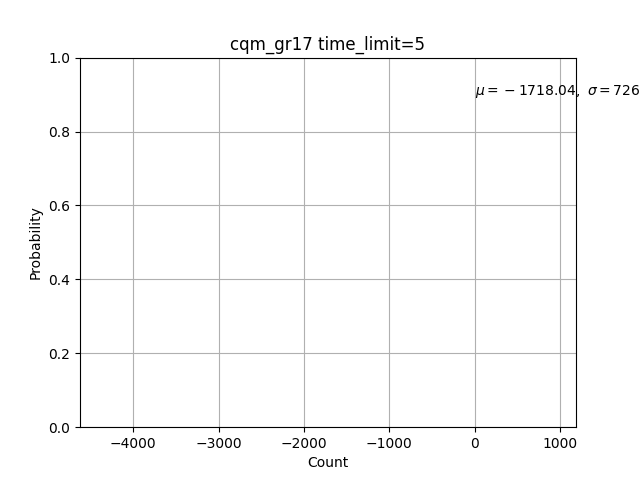
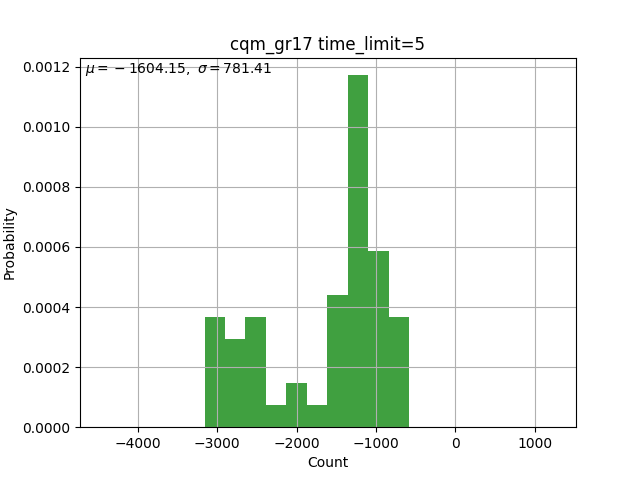
gr17

diff --git a/travelingSalesMan/tsp_dqm.py b/travelingSalesMan/tsp_dqm.py
@@ -185,12 +185,16 @@ class DWaveTSPSolver(object):
         print("--------------------------")
         energyList = sorted(self.solutions, key=lambda item: item[2])
         print('\n'.join(f"solution: {solution}\tWeight: {cost}\t error: {self.bestAnswer-cost}\tenergy: {energy}" for solution,cost,energy in energyList))
+        for problemNumber, (solution,cost,energy) in enumerate(energyList):
+            error = self.bestAnswer-cost
+            self.save.addDataRow(problemNumber,solution,cost,error,energy)
+        self.save.saveDataToFile(f"dqm_gr17_5sec")
         print("best solution found (solution(s) with lowest energy):")
         print("--------------------------")
         sortedCostList = sorted(self.solutions, key=lambda item: item[1])
         costList = list(filter(lambda x: x[1] == sortedCostList[0][1], sortedCostList))
         print('\n'.join(f"solution: {solution}\tWeight: {cost}\t error: {self.bestAnswer-cost}\tenergy: {energy}" for solution,cost,energy in costList))
-
+    
     def printBest(self):
         print("Best by cost")
         print(sorted(self.solutions, key=lambda item: item[1])[0])
@@ -319,16 +323,17 @@ print(f"error SD: {sigma}")
 
 # plt.hist(setOfError)
 # plt.show()
-
+f, ax = plt.subplots()
 n, bins, patches = plt.hist(setOfError,density=True, facecolor='g', alpha=0.75)
 
 
 plt.xlabel('Count')
 plt.ylabel('Probability')
 plt.title(f'{problemName} time_limit={timit_limit}')
-plt.text(0.1, 0.9, f'$\mu={mean:.2f},\ \sigma={sigma:.2f}$')
+# plt.text(0.1, 0.9, f'$\mu={mean:.2f},\ \sigma={sigma:.2f}$')
+plt.text(.01, .99, f'$\mu={mean:.2f},\ \sigma={sigma:.2f}$', ha='left', va='top', transform=ax.transAxes)
 plt.xlim(mean-(sigma*4), mean+(sigma*4))
-plt.ylim(0, 1)
+# plt.ylim(0, 1)
 plt.grid(True)
 plt.show()
 

diff --git a/travelingSalesMan/tsp_cqm.py b/travelingSalesMan/tsp_cqm.py
@@ -336,15 +336,16 @@ print(f"error SD: {sigma}")
 
 # plt.hist(setOfError)
 # plt.show()
-
+f, ax = plt.subplots()
 n, bins, patches = plt.hist(setOfError,density=True, facecolor='g', alpha=0.75)
 
 plt.xlabel('Count')
 plt.ylabel('Probability')
 plt.title(f'{solverName}_{problemName} time_limit={time_limit}')
-plt.text(0.1, 0.9, f'$\mu={mean:.2f},\ \sigma={sigma:.2f}$')
+# plt.text(0.1, 0.9, f'$\mu={mean:.2f},\ \sigma={sigma:.2f}$')
+plt.text(.01, .99, f'$\mu={mean:.2f},\ \sigma={sigma:.2f}$', ha='left', va='top', transform=ax.transAxes)
 plt.xlim(mean-(sigma*4), mean+(sigma*4))
-plt.ylim(0, 1)
+# plt.ylim(0, 1)
 plt.grid(True)
 plt.show()
 
